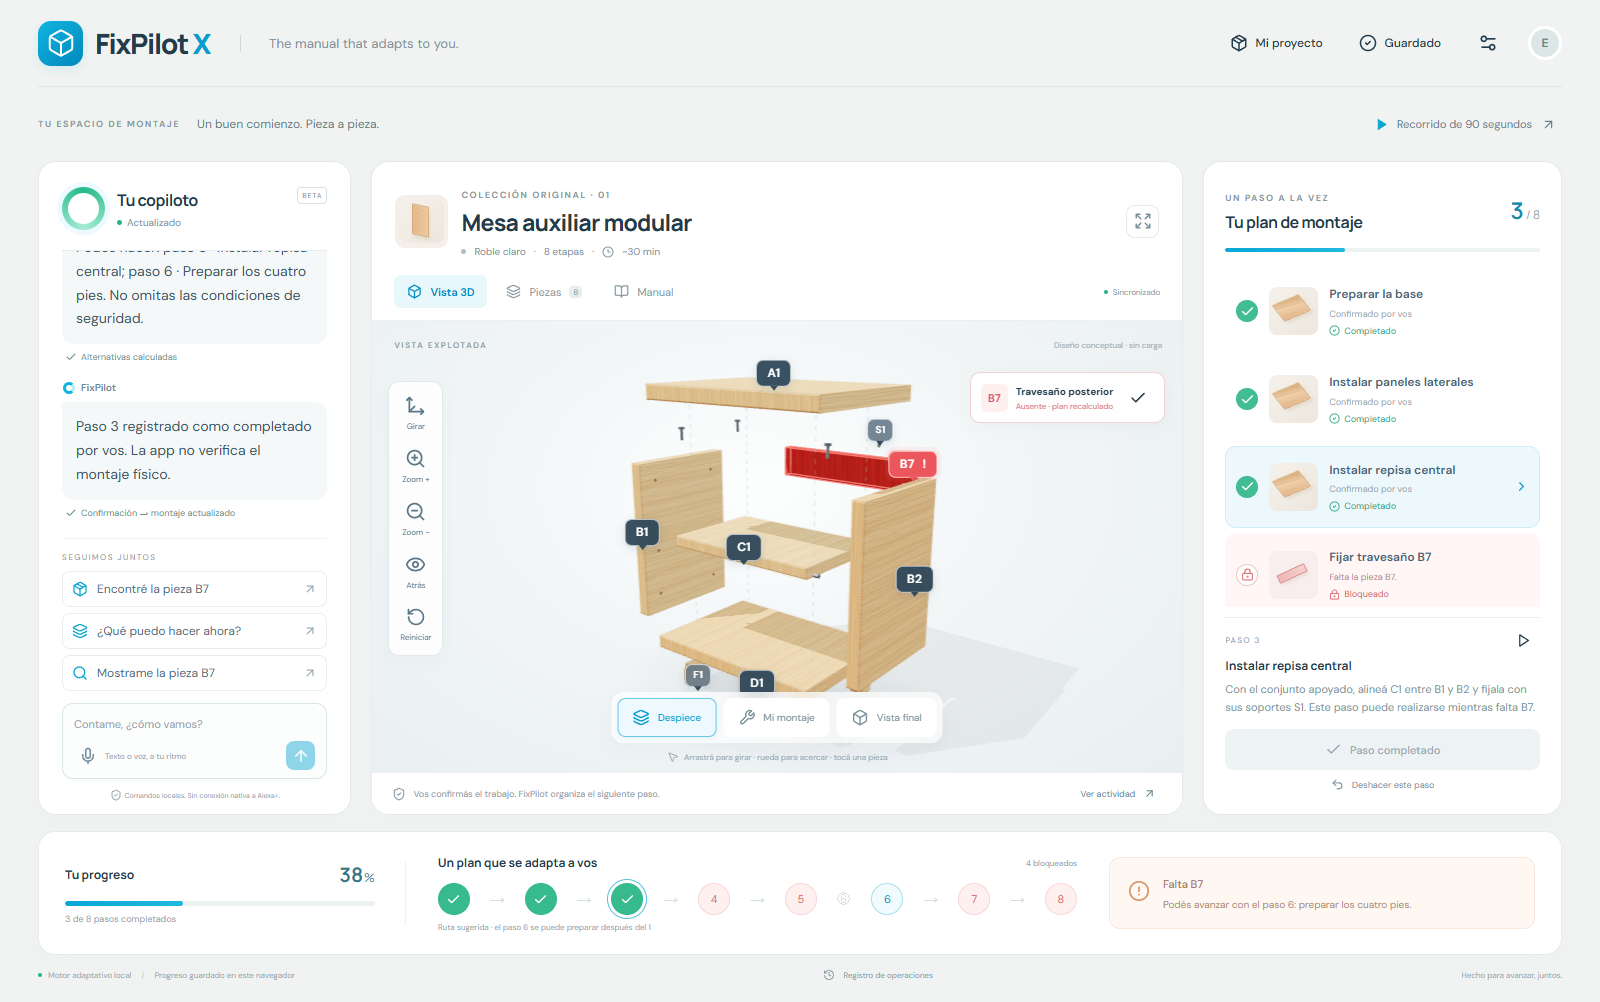
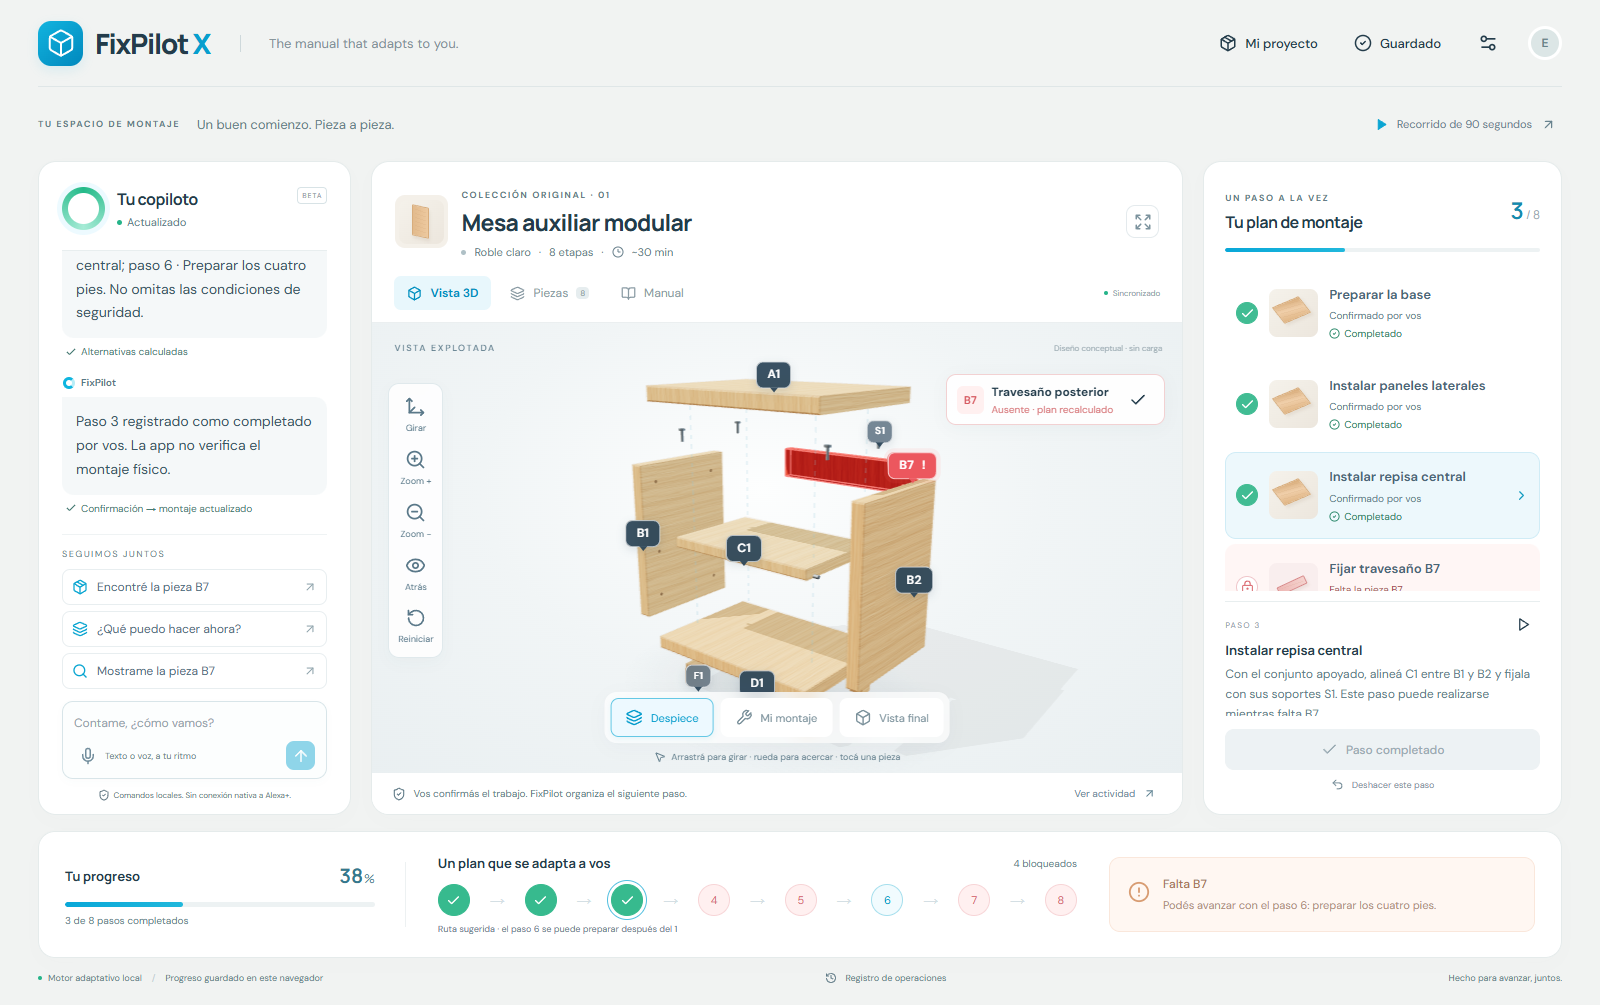
Update Site source

diff --git a/tests/e2e.spec.ts b/tests/e2e.spec.ts
@@ -1,5 +1,6 @@
 import { test, expect, type Page } from '@playwright/test';
 import { mkdir } from 'node:fs/promises';
+import { startMcpServer } from '../server/mcp';
 
 const STORE = 'fixpilot-x:assembly:v1';
 const PREFS = 'fixpilot-x:preferences:v1';
@@ -81,6 +82,11 @@ test('a missing B7 replans real work, independent steps remain possible, recover
   expect(beforeReload.missing).toEqual([]);
   expect(beforeReload.history.some(entry => entry.tool === 'mark_part_missing')).toBe(true);
   expect(beforeReload.history.some(entry => entry.tool === 'restore_part')).toBe(true);
+  await page.screenshot({ path: 'docs/screenshots/completed.png', fullPage: true });
+  await send(page, 'Me falta B7');
+  await expect(page.getByRole('log')).toContainText('Primero deshacé');
+  expect((await storedState(page)).completed).toEqual(beforeReload.completed);
+  expect((await storedState(page)).missing).toEqual([]);
 
   await page.reload();
   await expect(page.getByText('8 de 8 pasos completados', { exact: true })).toBeVisible();
@@ -91,6 +97,31 @@ test('a missing B7 replans real work, independent steps remain possible, recover
   await page.getByRole('button', { name: 'Ver actividad', exact: true }).click();
   await expect(page.getByRole('dialog')).toContainText('mark_part_missing');
   await expect(page.getByRole('dialog')).toContainText('restore_part');
+});
+
+test('browser initializes, discovers and invokes real MCP tools without losing local progress', async ({ page }) => {
+  const service = await startMcpServer(3101);
+  try {
+    await page.goto('/');
+    await complete(page, 1);
+    await page.getByRole('button', { name: 'Configuración', exact: true }).click();
+    const dialog = page.getByRole('dialog');
+    await dialog.locator('summary').click();
+    await dialog.getByRole('button', { name: 'Conectar servidor local', exact: true }).click();
+    await expect(dialog.getByRole('status')).toContainText('MCP conectado · 17 herramientas');
+    await page.keyboard.press('Escape');
+    await send(page, 'Me falta B7');
+    expect((await storedState(page)).completed).toEqual([1]);
+    expect((await storedState(page)).missing).toEqual(['B7']);
+    await expect(step(page, 4)).toHaveAccessibleName(/Bloqueado$/);
+    await send(page, 'Encontré B7');
+    expect((await storedState(page)).completed).toEqual([1]);
+    expect((await storedState(page)).missing).toEqual([]);
+    await page.getByRole('button', { name: 'Configuración', exact: true }).click();
+    await dialog.locator('summary').click();
+    await dialog.getByRole('button', { name: 'Volver al motor local', exact: true }).click();
+    await expect(dialog.getByRole('status')).toContainText('Motor local');
+  } finally { await service.close(); }
 });
 
 test('WebGL renders and camera controls change the model without changing completed work', async ({ page }) => {

diff --git a/src/audio.ts b/src/audio.ts
@@ -24,7 +24,7 @@ export class SoundBus {
       const start=now+index*.085;
       oscillator.type='sine'; oscillator.frequency.value=frequency;
       gain.gain.setValueAtTime(0,start);
-      gain.gain.linearRampToValueAtTime(Math.min(.35,Math.max(0,this.volume))*.16,start+.012);
+      gain.gain.linearRampToValueAtTime((Number.isNaN(this.volume)?0:Math.min(.35,Math.max(0,this.volume)))*.16,start+.012);
       gain.gain.exponentialRampToValueAtTime(.0001,start+.12);
       oscillator.connect(gain);gain.connect(this.context!.destination);
       oscillator.start(start);oscillator.stop(start+.14);

diff --git a/docs/EVIDENCE.md b/docs/EVIDENCE.md
@@ -1,0 +1,44 @@
+# Verified delivery evidence — 19 October 2026
+
+These are observed results, not a certification of physical furniture or native Alexa integration.
+
+## Automated checks
+
+| Check | Observed result |
+| --- | --- |
+| Dependency engine | 49 tests passed |
+| Deterministic commands | 58 tests passed |
+| Optional audio | 25 tests passed using a simulated Web Audio API |
+| Real MCP HTTP integration | 7 tests passed using the official SDK and real loopback sockets |
+| TypeScript | `tsc -b` passed |
+| Production build | Vite build passed; static output generated in `dist/` |
+| Edge browser scenarios | All 6 scenarios passed, with the MCP scenario rerun after correcting a test selector for a collapsed settings section |
+
+The initial combined unit run exposed a non-finite volume boundary. The audio implementation was corrected and all 25 audio tests passed on rerun. The other 114 tests passed in the combined run. No unresolved test failure remains in this delivery.
+
+The build reports a large JavaScript bundle (about 1.1 MB before gzip, about 310 KB gzipped), including Three.js and the optional MCP SDK. This is a performance optimization opportunity; it did not prevent the tested interactions. No frame-rate, latency, or hardware performance benchmark is claimed.
+
+## Browser scenarios
+
+1. Start at 0/8; confirm steps 1 and 2; report missing B7; verify 4/5/7/8 blocked and 3/6 available; reject completing a blocked step; complete independent 3/6; restore B7; finish 4/5/7/8; reach 8/8; reload without losing progress; replay without changing completion.
+2. After 8/8, report installed B7 missing. The engine rejects the inconsistent inventory change and preserves all completed work. Explicit undo is required to change installed-component history.
+3. Render WebGL, rotate, zoom, change camera, select a part, and show the final reference without completing physical work. No Three.js/WebGL runtime errors were observed.
+4. Verify zero AudioContext construction at page load and while sound is disabled; enable sound only through a gesture; mute; persist preferences.
+5. Use the keyboard to select a part, open completion, check its confirmation and confirm; honor OS reduced motion. Mobile navigation and document width checked at 390 × 844.
+6. Start a real local MCP server. The browser initializes, discovers 17 tools, transfers existing step-1 progress, marks/restores B7 through real tool calls, and disconnects back to the local engine while preserving state.
+
+The browser tests use installed Microsoft Edge in headless mode and allow a software WebGL renderer. They validate rendering and interactions, not native GPU performance on every device. Voice recognition and speech output are optional; no physical microphone or audible voice-quality test was performed. Audio unit tests explicitly use simulated browser APIs.
+
+## Real screenshots
+
+- `screenshots/desktop.png`: B7 absent and independent work completed.
+- `screenshots/mobile.png`: responsive 3D and missing B7.
+- `screenshots/completed.png`: actual 8/8 confirmed state.
+
+Screenshots were captured from the running application. No concept image is presented as evidence of implementation.
+
+## Integration route and remaining external work
+
+Submit as a declared **simulated Alexa+ experience built with Codex**, with deterministic commands and real domain tools. The optional MCP service is genuine but loopback-only. The hosted static application uses its in-browser engine and does not expose that local server publicly.
+
+GitHub publication, a public narrated YouTube/Vimeo video, personal entrant declarations and confirmed Devpost submission remain external delivery steps. `SUBMISSION_CHECKLIST.md` records these tasks. Sites publication is supplemental and private; it does not replace GitHub or the video.

diff --git a/docs/SUBMISSION_CHECKLIST.md b/docs/SUBMISSION_CHECKLIST.md
@@ -1,0 +1,31 @@
+# Submission checklist — target 22 October 2026
+
+The internal submission target is **22 October 2026**. Official deadline: 23 October at 12:00 PDT / 15:00 Bolivia. A saved Devpost draft is not a submitted entry.
+
+## Prepared in this repository
+
+- [x] Working original assembly, adaptive dependency engine and real 3D renderer.
+- [x] Declared simulated Alexa+ experience, built with Codex; deterministic runtime commands rather than an LLM.
+- [x] Optional genuine MCP SDK server, Streamable HTTP, protocol 2025-11-25 negotiation and real client tool calls.
+- [x] English README, MIT license, dependency lockfile, execution and test instructions.
+- [x] English project description: `DEVPOST.md`.
+- [x] Ninety-second narration and interaction script: `DEMO.md`.
+- [x] Architecture, tool documentation, official sources and genuine feedback.
+- [x] Real screenshots, including B7 absent and final 8/8 progress.
+
+## Finish before October 22 submission
+
+- [ ] Publish the source on the entrant's actual GitHub account; verify a fresh clone works with `npm ci` and the documented commands.
+- [ ] Check the public repository includes the MIT license, all original assets and complete instructions. If private, grant the official judges access according to the current rules.
+- [ ] Record actual interaction with English narration/captions, under three minutes. Show the B7 interruption, independent work, recovery, and evidence log.
+- [ ] Upload to YouTube or Vimeo and verify public playback while logged out.
+- [ ] Provide the real repository and video URLs in Devpost. The private Sites preview is supplemental; judges can use the repository locally.
+- [ ] Fill in accurate entrant/team identity, residence, age and any eligibility disclosures; the software cannot certify personal eligibility.
+- [ ] Select Alexa+ as the primary track. State the simulated route clearly in both description and video. Do not claim native Alexa+, AWS usage, or additional mini-challenge eligibility.
+- [ ] Paste actual product feedback and any genuine friction entries; remove unmeasured performance claims.
+- [ ] Check links, reviewer permissions and free access through the judging period.
+- [ ] Read and accept the entrant declarations personally, submit, then retain Devpost's actual confirmation and timestamp.
+
+## Rehearsal order
+
+Start clean → confirm 1, 2 → report missing B7 → show blocked 4/5/7/8 → complete 3 and/or 6 → recover B7 → confirm 4, 5, remaining 6, 7, 8 → show final model and action log. Keep the camera in a readable orientation. Animation playback is a visual preview and never a physical completion check.

diff --git a/README.md b/README.md
@@ -49,6 +49,8 @@ npm run build
 npm run preview
 ```
 
+To run the browser checks, leave `npm run dev` running and run `npm run test:e2e` in a second terminal. On Windows, the configuration uses installed Microsoft Edge. On other systems, first install the test browser with `npx playwright install chromium`. The tests include an actual browser MCP connection; keep port 3101 free for its temporary server. CI installs from the lockfile and checks the engine, MCP, audio, TypeScript and production build; a successful local run is not a claim that remote CI has run.
+
 `tests/mcp.test.ts` starts a real temporary loopback server and uses the official SDK client. It covers protocol negotiation, discovery, missing-B7 replanning/recovery, session isolation, validation, state import, and browser-origin restrictions. The engine tests exercise domain invariants. Browser checks are maintained separately; see the evidence notes for checks actually run in this delivery.
 
 ## Project map
@@ -69,6 +71,6 @@ Read [architecture](docs/ARCHITECTURE.md), [MCP tools](docs/MCP.md), [verified s
 
 ## Submission status and scope
 
-This is a local source delivery. No GitHub publication, public video, Devpost submission, prize eligibility, or native Alexa certification is implied. The entrant must complete the external submission and verify the links. The official FAQ permits a locally reproducible repository plus a demo; no paid hosting is required. See source notes for the current deadline and requirements.
+The stable source is checkpointed in Git. A private Sites publication is supplemental to the locally reproducible application. No GitHub publication, public video, Devpost submission, prize eligibility, or native Alexa certification is implied. The entrant must complete the external submission and verify the links. The official FAQ permits a locally reproducible repository plus a demo; no paid hosting is required. See [submission checklist](docs/SUBMISSION_CHECKLIST.md) and source notes for the current deadline and requirements.
 
 Only one original assembly is supported. There is no PDF-to-3D conversion, camera validation, open-ended repair advice, cloud account synchronization, or automatic Shopping integration. Dependencies retain their own licenses; this project's original source is [MIT-licensed](LICENSE). Geometry is constructed in code, icons use Lucide, and tones are synthesized rather than copied from Amazon or other apps.

diff --git a/docs/FRICTION_LOG.md b/docs/FRICTION_LOG.md
@@ -18,6 +18,10 @@ Prepared October 19, 2026. Only observed incidents belong here. Documentation re
 
 ## Product feedback by component
 
+Observed Windows setup issue: the Sites installation helper resolved npm's entrypoint beneath the project and failed with `MODULE_NOT_FOUND`. Running the installed Node executable against the official absolute npm CLI path, with a workspace cache, installed the dependencies successfully. Local preview first ran inside a restricted network environment and could not be reached by the browser; rerunning the same Vite server with approved network access returned HTTP 200 and rendered the app. These are development-environment incidents, not Amazon SDK defects.
+
+The real MCP tests passed protocol negotiation and session isolation; the browser also initialized, discovered 17 tools, invoked them and disconnected. See `EVIDENCE.md` for actual checks and limits. Audio testing found a non-finite volume boundary, now corrected. No private Amazon onboarding was attempted.
+
 - **Official MCP TypeScript SDK:** Used at runtime by the local server and browser client for Streamable HTTP, discovery, and tool calls. Its transport/session abstractions support the required separation between session state and application logic. Actual test results belong in the final evidence record. No performance benchmark or production hosting claim is made.
 - **Three.js:** Used to construct and render the original table geometry, manipulate the camera, and reflect part/progress state. No purchased model or copied furniture asset is needed.
 - **React / Vite / TypeScript:** Used for the local application and production build. Setup is described in the README; report only installation and build outcomes actually observed.
